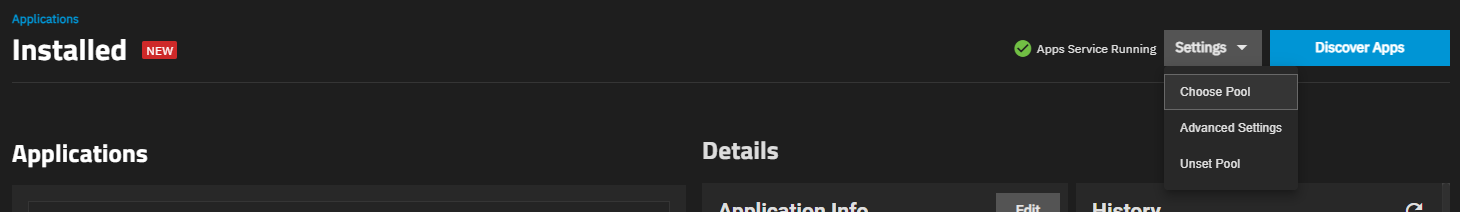
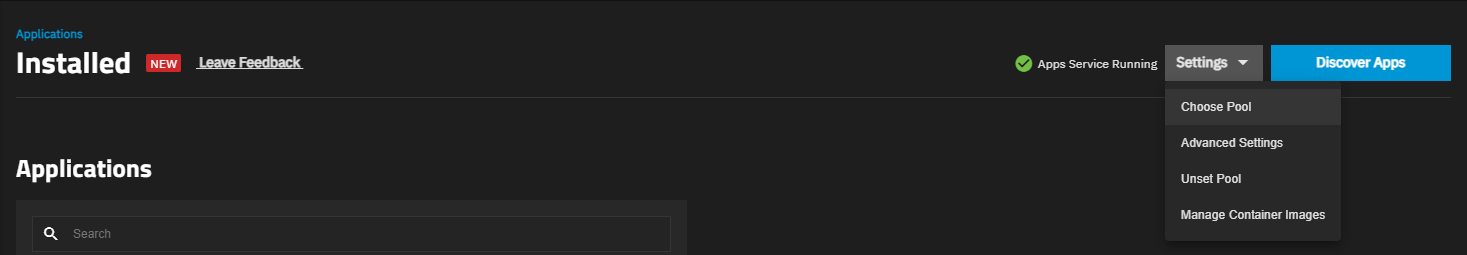
PD-673: Add Manage Container Images docs
- Add optimized images showing these new screens in 23.10
- Document UI ref and tutorial copy for using these screens.
- local build test.

diff --git a/content/SCALEUIReference/Apps/_index.md b/content/SCALEUIReference/Apps/_index.md
@@ -42,6 +42,7 @@ The checkbox to the left of an individual application selects that application.
 * **Choose Pool** opens the **[Choose a pool for Apps](#choose-a-pool-for-apps-dialog)** dialog.
 * **Advanced Settings** opens the **[Kubernetes Settings](#kubernetes-settings-screen)** configuration screen.
 * **Unset Pool** displays only after setting a pool for applications to use. It opens the **Unset Pool** dialog.
+* **[Manage Container Images](#manage-container-images)**  opens the related screen. This screen has options to pull, update, or delete specific images.
 
 {{< trueimage src="/images/SCALE/23.10/AppsInstalledAppsSettingOptions.png" alt="Installed Applications Screen Settings" id="Installed Applications Screen Settings" >}}
 
@@ -95,6 +96,31 @@ Select **Migrate applications to the new pool** when changing the applications p
 The **Unset Pool** option under **Settings** displays a confirmation dialog. Click **UNSET** to unset the pool. When complete, a **Success** dialog displays.
 
 {{< trueimage src="/images/SCALE/23.10/AppsUnsetPoolDialog.png" alt="Apps Unset Pool" id="Apps Unset Pool" >}}
+
+#### Manage Container Images
+
+This screen displays all container images currently downloaded on TrueNAS.
+
+{{< trueimage src="/images/SCALE/23.10/AppsManageContainerImages.png" alt="Apps Manage Container Images" id="Apps Manage Container Images" >}}
+
+Entering characters in the **<span class="iconify" data-icon="mdi:magnify"></span> Search** filters the images list to only **Image ID** or **Tags** entries matching the entered characters.
+
+Clicking checkboxes from the images list shows **Bulk Operations** to update or delete images.
+Click <span class="iconify" data-icon="mdi:dots-vertical"></span> for a single image entry shows the same update or delete options.
+
+The **Pull Image** button opens a side panel with options to download specific images to TrueNAS.
+
+{{< trueimage src="/images/SCALE/23.10/AppsManageContainerImagesPullImage.png" alt="Pull a Container Image" id="Pull a Container Image" >}}
+
+{{< truetable >}}
+| Setting | Description |
+|---------|-------------|
+| **Image Name** | Enter the full path and name for the specific image to download. Use the format *registry*/*repository*/*image*. |
+| **Image Tag** | Enter the specific image tag string to download that specific version of the image. The default **latest** pulls whichever image version is most recent. |
+| **Docker Registry Authentication** | Optional. Only needed for private images. |
+| **Username** | User account name to access a private Docker image. |
+| **Password** | User account password to access a private Docker image. |
+{{< /truetable >}}
 
 ### Bulk Actions
 

diff --git a/content/SCALETutorials/Apps/_index.md b/content/SCALETutorials/Apps/_index.md
@@ -111,6 +111,22 @@ You can change the Kubernetes Node IP to assign an external interface to your ap
 
 We recommend using the default Kubernetes Node IP (0.0.0.0) to ensure apps function correctly.
 
+## Container Image Management
+
+Click **Settings** > **Manage Container Images** to see every container image downloaded to TrueNAS.
+
+{{< trueimage src="/images/SCALE/23.10/AppsManageContainerImages.png" alt="Apps Manage Container Images" id="Apps Manage Container Images" >}}
+
+Images can be updated and deleted from this screen, or click **Pull Image** to download a specific custom image to TrueNAS.
+
+{{< trueimage src="/images/SCALE/23.10/AppsManageContainerImagesPullImage.png" alt="Pull a Container Image" id="Pull a Container Image" >}}
+
+To download a specific image, click the button and enter a valid path and tag to the image.
+Use the format *registry*/*repository*/*image* to identify the specific image.
+The default **latest** tag downloads the most recent image version.
+
+When downloading a private image, enter user account credentials that allow access to the private registry.
+
 ## Installing Custom Applications
 
 To deploy a custom application, go to **Discover** and click **Custom App** to open the **Install Custom App** screen.
